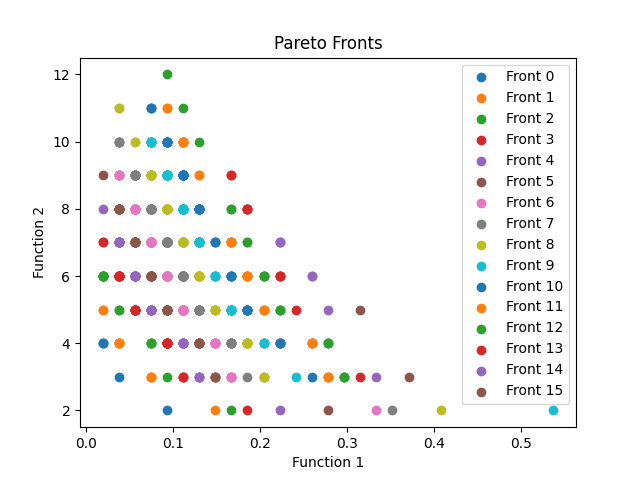
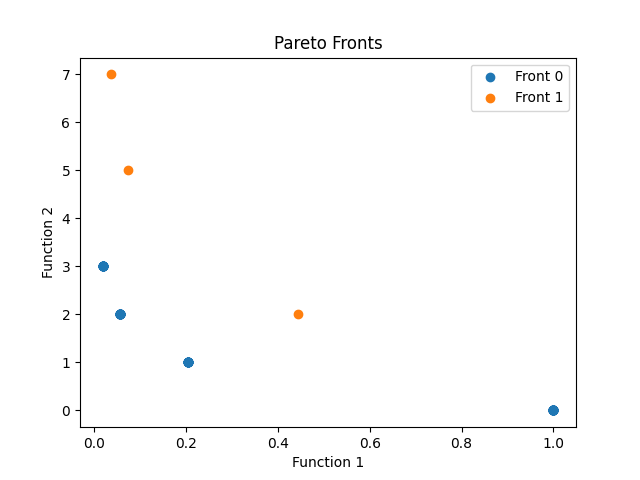
update

diff --git a/multi_objective_algo.py b/multi_objective_algo.py
@@ -1,6 +1,5 @@
 import random
 import numpy as np
-import pandas as pd
 from tqdm import tqdm
 import matplotlib.pyplot as plt
 from table_creation import csv_to_dict
@@ -96,13 +95,15 @@ def crowding_distance(front: list, objectives: list) -> list:
     
     for i in range(num_objectives):
         # Sort the individuals in the front by the i-th objective
-        sorted_indices = sorted(range(len(front)), key=lambda x: objectives[x][i])
+        sorted_indices = sorted(front, key=lambda x: objectives[x][i])
+        
         # Set the distance of the first and last individual to infinity
         distance[sorted_indices[0]] = float("inf")
         distance[sorted_indices[-1]] = float("inf")
         
         # Calculate the distance for each individual in the front
         for j in range(1, len(sorted_indices) - 1):
+            # 
             if objectives[sorted_indices[j]][i] != objectives[sorted_indices[0]][i]:
                 distance[sorted_indices[j]] += (objectives[sorted_indices[j + 1]][i] - objectives[sorted_indices[j - 1]][i]) / (objectives[sorted_indices[-1]][i] - objectives[sorted_indices[0]][i])
     return distance
@@ -173,40 +174,59 @@ def genetic_algorithm(lookup_dict, features_amount, population_size=100, generat
     population = [generate_individual(features_amount) for _ in range(population_size)]
     objectives = [(function1(individual, lookup_dict), function2(individual, lookup_dict)) for individual in population]
     ranks, fronts = fast_non_dominated_sort(objectives)
-    saved_generations = []
     
     for _ in tqdm(range(generations)):
-        parent1 = tournament_selection(population, objectives, ranks, fronts)
-        parent2 = tournament_selection(population, objectives, ranks, fronts)
-        child1, child2 = crossover(parent1, parent2)
-        child1 = mutate(child1, mutation_rate)
-        child2 = mutate(child2, mutation_rate)
-        population.append(child1)
-        population.append(child2)
+        new_population = population.copy()
+        assert len(new_population) == population_size
+        for _ in range(len(population) // 2):
+            parent1 = tournament_selection(population, objectives, ranks, fronts)
+            parent2 = tournament_selection(population, objectives, ranks, fronts)
+            child1, child2 = crossover(parent1, parent2)
+            child1 = mutate(child1, mutation_rate)
+            child2 = mutate(child2, mutation_rate)
+            new_population.append(child1)
+            new_population.append(child2)
+        # Evaluate the new population
+        objectives = [(function1(individual, lookup_dict), function2(individual, lookup_dict)) for individual in new_population]
         # non-dominated sorting on intermediate population : parents + children
         ranks, fronts = fast_non_dominated_sort(objectives)
         # Select the next generation
         selected = selection(objectives, fronts, population_size)
         # Create the new population
-        population = [population[i] for i in selected]
-        # Saving the generation
-        saved_generations.append(population)
-    # Return the best individuals
-    best_individuals = []
-    for i in range(len(population)):
-        if ranks[i] == 0:
-            best_individuals.append(population[i])
-    return best_individuals
+        population = [new_population[i] for i in selected]
+    # Get last fronts
+    objectives = [(function1(individual, lookup_dict), function2(individual, lookup_dict)) for individual in population]
+    ranks, fronts = fast_non_dominated_sort(objectives)
+    
+    # Saving in a file
+    with open("outputs/nsga2_output.txt", "w") as f:
+        for i, individual in enumerate(population):
+            f.write(f"Individual {i}: {individual}, Rank: {ranks[i]}, Front: {fronts[ranks[i]]}, Objectives: {objectives[i]}\n")
+        f.write(f"Population size: {len(population)}\n")
+        f.write(f"Fronts: {fronts}\n")
+        f.write(f"Ranks: {ranks}\n")
+        f.close()
+    
+    # diagnostic
+    unique = set(population)
+    print(f"Nombre d'individus uniques à la fin : {len(unique)}")
+    print(f"Nombre de fronts : {len(fronts)}")
+    print(f"Taille du premier front : {len(fronts[0])}")
+    return ranks, fronts, population
 
-def plot_population(population: list, lookup_dict: dict, name: str) -> None:
+def plot_population(front: list, population: list, lookup_dict: dict, name: str) -> None:
     """
     Plot the population in the objective space.
     """
     plt.close()
-    f1 = [function1(individual, lookup_dict) for individual in population]
-    f2 = [function2(individual, lookup_dict) for individual in population]
-    plt.scatter(f1, f2)
+    f1_pop = [function1(individual, lookup_dict) for individual in population]
+    f2_pop = [function2(individual, lookup_dict) for individual in population]
+    plt.scatter(f1_pop, f2_pop, label="Population")
     
+    f1 = [function1(individual, lookup_dict) for individual in front]
+    f2 = [function2(individual, lookup_dict) for individual in front]
+    plt.scatter(f1, f2, color="red")
+
     plt.xlabel("Function 1")
     plt.ylabel("Function 2")
     plt.title("Population in Objective Space")
@@ -256,7 +276,11 @@ if __name__ == "__main__":
     table = csv_to_dict("outputs/wine_complete_table.csv")
     features_amount = len(next(iter(table.keys())))
     
-    pareto_front = genetic_algorithm(table, features_amount, population_size=100, generations=100,  mutation_rate=0.01)
+    ranks, fronts, population = genetic_algorithm(table, features_amount, population_size=100, generations=50,  mutation_rate=0.01)
     
-    # Plot the population
-    plot_population(pareto_front, table, "wine")
+    print("length of pop: ", len(population))
+    plot_fronts(population, fronts, table)
+    
+    pareto_front = [population[i] for i in fronts[0]]
+    plot_population(pareto_front, population, table, "wine")
+    
